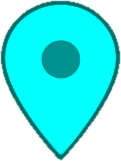
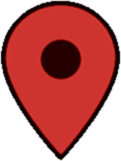
add new png files and set them up

diff --git a/client/src/components/map/Marker.jsx b/client/src/components/map/Marker.jsx
@@ -2,6 +2,9 @@ import React, { useState, useContext, lazy, Suspense } from "react";
 import { getPriceChangePercentage } from "../helpers/getPriceChangePercentages";
 import { MarkerFilterContext } from "../../providers/MarkerFilterProvider";
 
+
+
+
 const GoogleMapMarker = lazy(() =>
   import("@react-google-maps/api").then((module) => ({
     default: module.Marker,
@@ -32,109 +35,17 @@ function Marker({
     state,
   } = useContext(MarkerFilterContext);
 
-  // console.log("state.currentProperty ➤", state.currentProperty);
 
-  function percentageToHexColor(percentage, lightness = 0, saturation = 100) {
-    let R, G, B;
-    percentage -= 60;
-
-    R = Math.round(percentage * 2 + lightness + (100 - saturation));
-    G = Math.round(150 + lightness - percentage * 2.5 + (100 - saturation));
-    B =
-      150 + lightness - percentage * 2.5 >= 255
-        ? (150 + lightness - percentage * 2.5 - 255) * 4
-        : 0 + (100 - saturation);
-
-    R = R > 255 ? 255 : R < 0 ? 0 : R;
-    G = G > 255 ? 255 : G < 0 ? 0 : G;
-    B = B > 255 ? 255 : B < 0 ? 0 : B;
-
-    R = R.toString(16).padStart(2, "0");
-    G = G.toString(16).padStart(2, "0");
-    B = B.toString(16).padStart(2, "0");
-
-    return "#" + R + G + B;
-  }
-
-  function desaturate(hex, amount) {
-    // Remove the '#' from the beginning of the hex string
-    hex = hex.substring(1);
-
-    // Convert hex string to RGB values
-    let r = parseInt(hex.substring(0, 2), 16);
-    let g = parseInt(hex.substring(2, 4), 16);
-    let b = parseInt(hex.substring(4, 6), 16);
-
-    // Desaturate the color by averaging the RGB values and scaling them down
-    let avg = (r + g + b) / 3;
-    r = Math.round(avg + (r - avg) * (1 - amount));
-    g = Math.round(avg + (g - avg) * (1 - amount));
-    b = Math.round(avg + (b - avg) * (1 - amount));
-
-    // Convert the RGB values back to a hex string
-    let result = ((1 << 24) + (r << 16) + (g << 8) + b).toString(16).slice(1);
-    return "#" + result;
-  }
-
-  function darken(hex, amount) {
-    // Remove the '#' from the beginning of the hex string
-    hex = hex.substring(1);
-
-    // Convert hex string to RGB values
-    let r = parseInt(hex.substring(0, 2), 16);
-    let g = parseInt(hex.substring(2, 4), 16);
-    let b = parseInt(hex.substring(4, 6), 16);
-
-    // Darken the color by decreasing the RGB values
-    r = Math.round(r * (1 - amount));
-    g = Math.round(g * (1 - amount));
-    b = Math.round(b * (1 - amount));
-
-    // Convert the RGB values back to a hex string
-    let result = ((1 << 24) + (r << 16) + (g << 8) + b).toString(16).slice(1);
-    return "#" + result;
-  }
   
-  const costVSavg = (getPriceChangePercentage(id, prices, properties)*4)+100;
+  let costVSavg = getPriceChangePercentage(id, prices, properties);
+  if (costVSavg <= -20) {costVSavg = -20}
+  costVSavg = Math.floor((costVSavg + 20) / 2.4);
+  if (costVSavg>=14){costVSavg=14}
+  //  console.log("costVSavg ➤", costVSavg); 
 
 
   const isGray =
     state.prevProperty.includes(id) && state.currentProperty.id !== id;
-  const saturation = state.prevProperty.includes(id) ? 0 : 100;
-  const markerColor = percentageToHexColor(costVSavg, 120);
-  const markerColorgreyed = desaturate(markerColor, 0.5);
-  const markerColorgreyeddark = darken(desaturate(markerColor, 0.5), 0.3);
-  const markerColorDarker = darken(markerColor, 0.7);
-  const markerColorDark = darken(markerColor, 0.4);
-  const Point = window.google.maps.Point;
-  const Circle = window.google.maps.SymbolPath.CIRCLE;
-
-  const pinSymbol2 = function (color, greycolor, darkColor, isGray, isHovered) {
-    return {
-      path: Circle,
-      fillColor: isGray ? greycolor : color,
-      strokeColor: isGray ? "#808080" : darkColor,
-      strokeWeight: isHovered ? 0.5 : 0.5,
-      fillOpacity: 1,
-      scale: isHovered ? 5.2 : 4,
-      anchor: new Point(0.2, 4.8),
-    };
-  };
-
-  function pinSymbol1(color, greycolor, darkColor, isGray, isHovered) {
-    return {
-      path: "M23.667 11.84c0 7.52-10.048 19.52-11.5 19.52s-11.5-12-11.5-19.52C.667 5.743 5.816.8 12.167.8c6.35 0 11.5 4.943 11.5 11.04",
-      fillColor: isGray ? greycolor : color,
-      fillOpacity: 1,
-      strokeColor: isGray ? "#808080" : darkColor,
-      strokeWeight: isHovered ? 3 : 1,
-      scale: isHovered ? 1.3 : 1,
-      anchor: new Point(13, 32),
-    };
-  }
-  // console.log("state.currentProperty.id === id ➤", state.currentProperty.id === id);
-  // console.log("state.prevProperty.includes(id) ➤", state.prevProperty.includes(id));
-
   return (
     <div>
       {(selectedBedrooms.includes(bedrooms) || !selectedBedrooms.length) &&
@@ -142,48 +53,19 @@ function Marker({
       cost < maxF &&
       cost > minF ? (
         <Suspense fallback={<div>Loading...</div>}>
-          {/* Marker 1 */}
           <GoogleMapMarker
             position={position}
             title={title}
             zIndex={isGray ? 0 : 1}
             onClick={() => handleClickMarker(id)}
-            icon={pinSymbol1(
-              markerColor,
-              markerColorgreyed,
-              markerColorDarker,
-              isGray,
-              isHovered
-            )}
-            onMouseOver={() => {
-              setIsHovered(true);
+            icon={{
+              url: require(`../Docs/marker${
+                isGray ? "grey" : ""
+              }${costVSavg}.png`),
+              scaledSize: isHovered
+                ? { width: 34, height: 47 }
+                : { width: 26, height: 36 },
             }}
-            onMouseOut={() => {
-              setIsHovered(false);
-            }}
-            animation={(() => {
-              if (state.currentProperty.id === id) {
-                return 1;
-              }
-              if (state.prevProperty.includes(id)) {
-                return null;
-              }
-              return 2;
-            })()}
-          />
-          Marker 2
-          <GoogleMapMarker
-            position={position}
-            title={title}
-            zIndex={isGray ? 0 : 1}
-            onClick={() => handleClickMarker(id)}
-            icon={pinSymbol2(
-              markerColorDarker,
-              markerColorgreyeddark,
-              markerColorDark,
-              isGray,
-              isHovered
-            )}
             onMouseOver={() => {
               setIsHovered(true);
             }}
